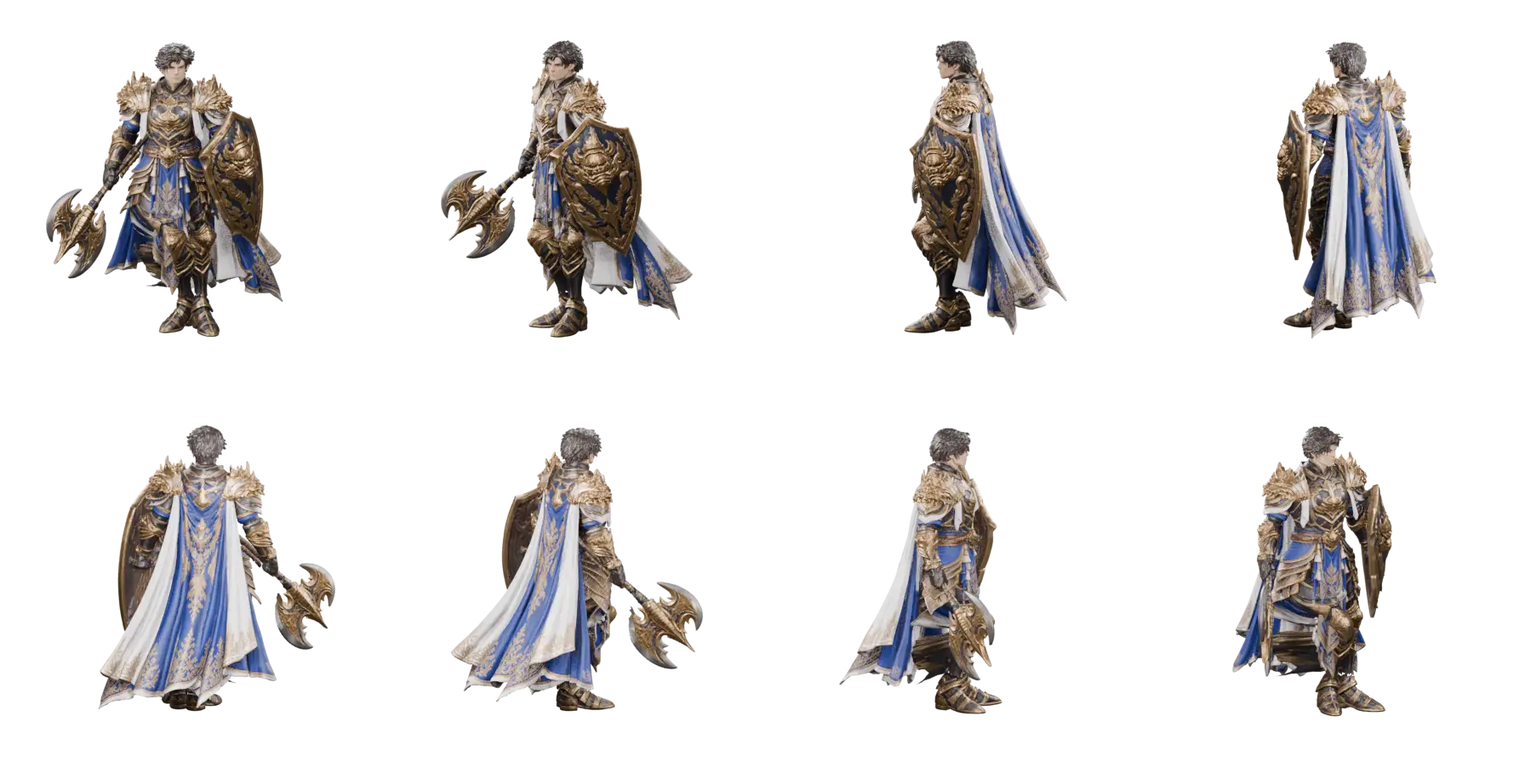
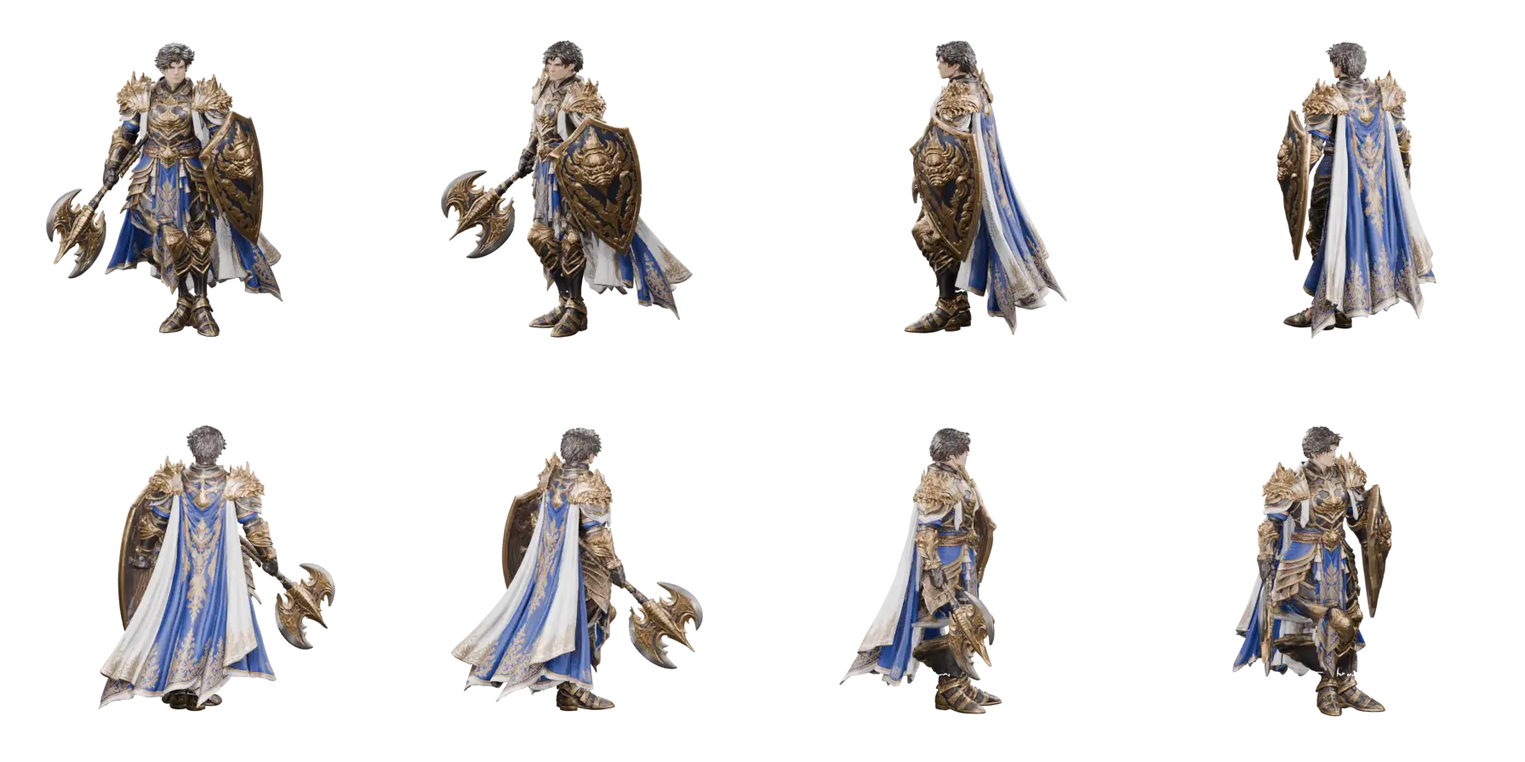
Publish approved eight-direction character rig repairs

diff --git a/tools/hemant-walk-demo/index.html b/tools/hemant-walk-demo/index.html
@@ -11,5 +11,5 @@
 <iframe class="walk-hud hud-top" id="hudTop" title="แถบสถานะผู้ผนึก" src="../town-walk-demo/hud.html?edge=top&v=quest-editorial-2"></iframe><iframe class="walk-hud hud-bottom" id="hudBottom" title="เมนูหลัก" src="../town-walk-demo/hud.html?edge=bottom&v=quest-editorial-2"></iframe><footer><a href="/Soulbeast/tools/town-walk-demo/start.html">เลือกผู้ผนึก / เริ่มเกม</a> · บันทึกการผจญภัยบนเครื่องนี้<span>WASD / ลูกศร · Shift วิ่ง · E สำรวจ · M แผนที่</span></footer>
 <dialog id="townDialog"><small id="dialogType">แผนที่ประเทศเหมันตคีรี</small><h2 id="dialogTitle"></h2><p id="dialogText"></p><div id="dialogChoices"></div><button id="closeDialog">กลับไปเดินต่อ</button></dialog>
 <div id="loading" class="walk-loading" role="status" aria-live="polite"><div class="walk-loading-card"><img class="walk-loading-art" src="/Soulbeast/assets/ui/online-hourglass.webp" alt="" width="360" height="360"><p class="walk-loading-title">กำลังเปิดเส้นทางประเทศ…</p><div class="walk-loading-progress" aria-hidden="true"><i></i></div><p class="walk-loading-note">กรุณารอสักครู่…</p><div class="walk-loading-actions"></div></div></div>
-<script src="/Soulbeast/tools/town-walk-demo/social-engine.generated.js?v=camp-replay-1"></script><script src="war-state.js"></script><script src="war-topology.generated.js"></script><script src="forest-policy.js"></script><script src="country-data.js"></script><script src="../town-walk-demo/town-profiles.js"></script><script src="map-data.js"></script><script src="road-routing.js"></script><script>window.hemantBlueMap=window.hemantMap;</script><script src="country-context.js?v=loading-art-20261103"></script><script src="navigation.js?v=border-gates-v1"></script><script src="waterways.js?v=country-path-art-1"></script><script src="border-data.js?v=four-border-gates-v3"></script><script src="border-links.js?v=four-border-gates-v3"></script><script src="terrain.js?v=living-world-20261103"></script><script src="roamers.js?v=world-polish-20261103"></script><script src="bandits.js?v=edge-camps-20261103"></script><script src="/Soulbeast/tools/hemant-walk-demo/pursuit.js?v=country-one-screen-20261103"></script><script src="encounters.js?v=country-chase-5s"></script><script src="treasure-catalog.js"></script><script src="treasures.js"></script><script src="../town-walk-demo/country-weather.js?v=mobile-effects-1"></script><script src="country-lava.js?v=generated-terrain-1"></script><script src="/Soulbeast/tools/town-walk-demo/sealer-sprite-catalog.js?v=walking-gear-20261111"></script><script src="/Soulbeast/tools/town-walk-demo/sealer-sprites.js?v=all-scenes-smooth-20261103"></script><script src="/Soulbeast/tools/town-walk-demo/quest-engine.js?v=quest-tracking-1"></script><script src="/Soulbeast/tools/town-walk-demo/quest-event-art.js?v=quest-freeze-20261107"></script><script src="/Soulbeast/tools/town-walk-demo/quest-events.js?v=quest-freeze-20261107"></script><script src="/Soulbeast/tools/town-walk-demo/world-quests-data.js?v=main-story-20261103"></script><script src="/Soulbeast/tools/town-walk-demo/quest-pilot-visuals.js?v=quest-freeze-20261107"></script><script src="/Soulbeast/tools/town-walk-demo/quest-expansion-visuals.js?v=quest-freeze-20261107"></script><script src="/Soulbeast/tools/town-walk-demo/world-quests-ui.js?v=quest-tracking-1"></script><script src="/Soulbeast/tools/town-walk-demo/world-atlas-data.js"></script><script src="/Soulbeast/tools/labyrinth-demo/atlas-entrance.js"></script><script src="/Soulbeast/tools/town-walk-demo/world-atlas-logic.js"></script><script src="/Soulbeast/tools/town-walk-demo/world-atlas.js?v=quest-tracking-1"></script><script src="/Soulbeast/tools/labyrinth-demo/party-presence.js"></script><script src="/Soulbeast/tools/town-walk-demo/nameplate-rules.js?v=world-polish-20261103"></script><script src="/Soulbeast/tools/town-walk-demo/remote-walk-sprite.js?v=2"></script><script src="/Soulbeast/tools/town-walk-demo/companion-catalog.js?v=20261105"></script><script src="/Soulbeast/tools/town-walk-demo/companion-followers.js?v=companion-glide-1"></script><script src="/Soulbeast/tools/town-walk-demo/walk-presence.js?v=all-walk-shields-1"></script><script src="/Soulbeast/tools/town-walk-demo/social-scene.js?v=pvp-fast-turns-20261106"></script><script src="quest-targets.js?v=world-polish-20261103"></script><script src="quest-envoy.js"></script><script src="/Soulbeast/tools/town-walk-demo/walk-audio-catalog.js"></script><script src="/Soulbeast/tools/town-walk-demo/walk-audio.js?v=landmark-water-1"></script><script src="fusion-rules.js?v=owned-beasts-20261104"></script><script src="fusion-sprites.js"></script><script src="fusion.js?v=fusion-catalog-20261104"></script><script src="forest-catalog.js?v=world-polish-20261103"></script><script src="landmark-water.js?v=1"></script><script src="forest-entrance.js?v=landmark-water-1"></script><script src="/Soulbeast/tools/town-walk-demo/npc-dialogue.js?v=world-polish-20261103"></script><script src="/Soulbeast/tools/town-walk-demo/device-controls.js"></script><script src="/Soulbeast/tools/town-walk-demo/map-symbols.js"></script><script src="/Soulbeast/tools/town-walk-demo/walk-controls.js?v=world-polish-20261103"></script><script src="country-props.js?v=world-polish-20261103"></script><script src="/Soulbeast/tools/town-walk-demo/living-environment.js?v=country-smooth-20261103"></script><script src="render-budget.js?v=all-scenes-smooth-20261103"></script><script src="../island-demo/island-rules.js?v=game-clock-1"></script><script src="../island-demo/island-account.js?v=2"></script><script src="../town-walk-demo/hud-vitals.js"></script><script src="../island-demo/preview-profile.js?v=3"></script><script src="colosseum-site.js?v=1"></script><script src="/Soulbeast/tools/town-walk-demo/walk-graphics.js?v=1"></script><script src="/Soulbeast/tools/town-walk-demo/walk-idle-art.js?v=npc-interval-1"></script><script src="path-art.js?v=1"></script><script src="road-lamps.js?v=night-1"></script><script src="daylight.js?v=game-clock-1"></script><script src="bridge-rails.js?v=1"></script><script src="world.js?v=quest-editorial-2"></script><script src="/Soulbeast/tools/hemant-walk-demo/repellent.js?v=stack-time-1"></script><script src="/Soulbeast/tools/hemant-walk-demo/repellent-status.js"></script><script src="/Soulbeast/tools/town-walk-demo/teleport-travel.js?v=dungeon-flow-20261106"></script><script src="quick-items.js?v=country-teleport-button-1"></script><script type="module" src="../../client/event-announcements.mjs?v=boss-portrait-1"></script><script src="../rare-beast-walk-demo/catalog.js"></script><script src="../rare-beast-walk-demo/rare-boss-sprites.js"></script><script type="module" src="../../client/kingdom-boss-walk.mjs?v=kingdom-boss-chase-2-projectile-2"></script></body></html>
+<script src="/Soulbeast/tools/town-walk-demo/social-engine.generated.js?v=camp-replay-1"></script><script src="war-state.js"></script><script src="war-topology.generated.js"></script><script src="forest-policy.js"></script><script src="country-data.js"></script><script src="../town-walk-demo/town-profiles.js"></script><script src="map-data.js"></script><script src="road-routing.js"></script><script>window.hemantBlueMap=window.hemantMap;</script><script src="country-context.js?v=loading-art-20261103"></script><script src="navigation.js?v=border-gates-v1"></script><script src="waterways.js?v=country-path-art-1"></script><script src="border-data.js?v=four-border-gates-v3"></script><script src="border-links.js?v=four-border-gates-v3"></script><script src="terrain.js?v=living-world-20261103"></script><script src="roamers.js?v=world-polish-20261103"></script><script src="bandits.js?v=edge-camps-20261103"></script><script src="/Soulbeast/tools/hemant-walk-demo/pursuit.js?v=country-one-screen-20261103"></script><script src="encounters.js?v=country-chase-5s"></script><script src="treasure-catalog.js"></script><script src="treasures.js"></script><script src="../town-walk-demo/country-weather.js?v=mobile-effects-1"></script><script src="country-lava.js?v=generated-terrain-1"></script><script src="/Soulbeast/tools/town-walk-demo/sealer-sprite-catalog.js?v=walking-approved-20261111"></script><script src="/Soulbeast/tools/town-walk-demo/sealer-sprites.js?v=all-scenes-smooth-20261103"></script><script src="/Soulbeast/tools/town-walk-demo/quest-engine.js?v=quest-tracking-1"></script><script src="/Soulbeast/tools/town-walk-demo/quest-event-art.js?v=quest-freeze-20261107"></script><script src="/Soulbeast/tools/town-walk-demo/quest-events.js?v=quest-freeze-20261107"></script><script src="/Soulbeast/tools/town-walk-demo/world-quests-data.js?v=main-story-20261103"></script><script src="/Soulbeast/tools/town-walk-demo/quest-pilot-visuals.js?v=quest-freeze-20261107"></script><script src="/Soulbeast/tools/town-walk-demo/quest-expansion-visuals.js?v=quest-freeze-20261107"></script><script src="/Soulbeast/tools/town-walk-demo/world-quests-ui.js?v=quest-tracking-1"></script><script src="/Soulbeast/tools/town-walk-demo/world-atlas-data.js"></script><script src="/Soulbeast/tools/labyrinth-demo/atlas-entrance.js"></script><script src="/Soulbeast/tools/town-walk-demo/world-atlas-logic.js"></script><script src="/Soulbeast/tools/town-walk-demo/world-atlas.js?v=quest-tracking-1"></script><script src="/Soulbeast/tools/labyrinth-demo/party-presence.js"></script><script src="/Soulbeast/tools/town-walk-demo/nameplate-rules.js?v=world-polish-20261103"></script><script src="/Soulbeast/tools/town-walk-demo/remote-walk-sprite.js?v=2"></script><script src="/Soulbeast/tools/town-walk-demo/companion-catalog.js?v=20261105"></script><script src="/Soulbeast/tools/town-walk-demo/companion-followers.js?v=companion-glide-1"></script><script src="/Soulbeast/tools/town-walk-demo/walk-presence.js?v=all-walk-shields-1"></script><script src="/Soulbeast/tools/town-walk-demo/social-scene.js?v=pvp-fast-turns-20261106"></script><script src="quest-targets.js?v=world-polish-20261103"></script><script src="quest-envoy.js"></script><script src="/Soulbeast/tools/town-walk-demo/walk-audio-catalog.js"></script><script src="/Soulbeast/tools/town-walk-demo/walk-audio.js?v=landmark-water-1"></script><script src="fusion-rules.js?v=owned-beasts-20261104"></script><script src="fusion-sprites.js"></script><script src="fusion.js?v=fusion-catalog-20261104"></script><script src="forest-catalog.js?v=world-polish-20261103"></script><script src="landmark-water.js?v=1"></script><script src="forest-entrance.js?v=landmark-water-1"></script><script src="/Soulbeast/tools/town-walk-demo/npc-dialogue.js?v=world-polish-20261103"></script><script src="/Soulbeast/tools/town-walk-demo/device-controls.js"></script><script src="/Soulbeast/tools/town-walk-demo/map-symbols.js"></script><script src="/Soulbeast/tools/town-walk-demo/walk-controls.js?v=world-polish-20261103"></script><script src="country-props.js?v=world-polish-20261103"></script><script src="/Soulbeast/tools/town-walk-demo/living-environment.js?v=country-smooth-20261103"></script><script src="render-budget.js?v=all-scenes-smooth-20261103"></script><script src="../island-demo/island-rules.js?v=game-clock-1"></script><script src="../island-demo/island-account.js?v=2"></script><script src="../town-walk-demo/hud-vitals.js"></script><script src="../island-demo/preview-profile.js?v=3"></script><script src="colosseum-site.js?v=1"></script><script src="/Soulbeast/tools/town-walk-demo/walk-graphics.js?v=1"></script><script src="/Soulbeast/tools/town-walk-demo/walk-idle-art.js?v=npc-interval-1"></script><script src="path-art.js?v=1"></script><script src="road-lamps.js?v=night-1"></script><script src="daylight.js?v=game-clock-1"></script><script src="bridge-rails.js?v=1"></script><script src="world.js?v=quest-editorial-2"></script><script src="/Soulbeast/tools/hemant-walk-demo/repellent.js?v=stack-time-1"></script><script src="/Soulbeast/tools/hemant-walk-demo/repellent-status.js"></script><script src="/Soulbeast/tools/town-walk-demo/teleport-travel.js?v=dungeon-flow-20261106"></script><script src="quick-items.js?v=country-teleport-button-1"></script><script type="module" src="../../client/event-announcements.mjs?v=boss-portrait-1"></script><script src="../rare-beast-walk-demo/catalog.js"></script><script src="../rare-beast-walk-demo/rare-boss-sprites.js"></script><script type="module" src="../../client/kingdom-boss-walk.mjs?v=kingdom-boss-chase-2-projectile-2"></script></body></html>
 

diff --git a/tools/town-walk-demo/sealer-sprite-catalog.js b/tools/town-walk-demo/sealer-sprite-catalog.js
@@ -763,15 +763,15 @@
     "name": "ผู้พิทักษ์นิรันดร์",
     "tier": 2,
     "female": {
-      "walk": "/Soulbeast/assets/player-walk/meshy-eternal-female/walk-v3-trimmed.webp?v=walking-gear-20261111",
-      "idle": "/Soulbeast/assets/player-walk/meshy-eternal-female/idle-v3-trimmed.webp?v=walking-gear-20261111",
+      "walk": "/Soulbeast/assets/player-walk/meshy-eternal-female/walk-v3-trimmed.webp?v=walking-approved-20261111",
+      "idle": "/Soulbeast/assets/player-walk/meshy-eternal-female/idle-v3-trimmed.webp?v=walking-approved-20261111",
       "portrait": "/Soulbeast/assets/portraits/eternal-female.webp",
       "ready": true,
       "quality": "sharp",
       "cell": 448,
       "renderScale": 1.1375,
       "sourceMinHeight": null,
-      "run": "/Soulbeast/assets/player-walk/meshy-eternal-female/run-v3-trimmed.webp?v=walking-gear-20261111",
+      "run": "/Soulbeast/assets/player-walk/meshy-eternal-female/run-v3-trimmed.webp?v=walking-approved-20261111",
       "walkFrames": 12,
       "runFrames": 12,
       "phaseScale": 0.6,
@@ -799,15 +799,15 @@
       }
     },
     "male": {
-      "walk": "/Soulbeast/assets/player-walk/meshy-eternal-male/walk-v4-trimmed.webp?v=walking-gear-20261111",
-      "idle": "/Soulbeast/assets/player-walk/meshy-eternal-male/idle-v4-trimmed.webp?v=walking-gear-20261111",
+      "walk": "/Soulbeast/assets/player-walk/meshy-eternal-male/walk-v4-trimmed.webp?v=walking-approved-20261111",
+      "idle": "/Soulbeast/assets/player-walk/meshy-eternal-male/idle-v4-trimmed.webp?v=walking-approved-20261111",
       "portrait": "/Soulbeast/assets/media/08591beed2d1368433518fef.webp",
       "ready": true,
       "quality": "sharp",
       "cell": 448,
       "renderScale": 1.1375,
       "sourceMinHeight": null,
-      "run": "/Soulbeast/assets/player-walk/meshy-eternal-male/run-v4-trimmed.webp?v=walking-gear-20261111",
+      "run": "/Soulbeast/assets/player-walk/meshy-eternal-male/run-v4-trimmed.webp?v=walking-approved-20261111",
       "walkFrames": 12,
       "runFrames": 12,
       "phaseScale": 0.6,
@@ -1143,15 +1143,15 @@
     "name": "พรานป่า",
     "tier": 1,
     "female": {
-      "walk": "/Soulbeast/assets/player-walk/meshy-ranger-female/walk-v6-trimmed.webp?v=walking-gear-20261111",
-      "idle": "/Soulbeast/assets/player-walk/meshy-ranger-female/idle-v6-trimmed.webp?v=walking-gear-20261111",
+      "walk": "/Soulbeast/assets/player-walk/meshy-ranger-female/walk-v6-trimmed.webp?v=walking-approved-20261111",
+      "idle": "/Soulbeast/assets/player-walk/meshy-ranger-female/idle-v6-trimmed.webp?v=walking-approved-20261111",
       "portrait": "/Soulbeast/assets/portraits/ranger-female.webp",
       "ready": true,
       "quality": "sharp",
       "cell": 416,
       "renderScale": 1.0562500000000001,
       "sourceMinHeight": null,
-      "run": "/Soulbeast/assets/player-walk/meshy-ranger-female/run-v6-trimmed.webp?v=walking-gear-20261111",
+      "run": "/Soulbeast/assets/player-walk/meshy-ranger-female/run-v6-trimmed.webp?v=walking-approved-20261111",
       "walkFrames": 12,
       "runFrames": 12,
       "phaseScale": 0.6,
@@ -2207,15 +2207,15 @@
     "name": "ช่างตีเหล็ก",
     "tier": 1,
     "female": {
-      "walk": "/Soulbeast/assets/player-walk/meshy-blacksmith-female/walk-v3-trimmed.webp?v=walking-gear-20261111",
-      "idle": "/Soulbeast/assets/player-walk/meshy-blacksmith-female/idle-v3-trimmed.webp?v=walking-gear-20261111",
+      "walk": "/Soulbeast/assets/player-walk/meshy-blacksmith-female/walk-v3-trimmed.webp?v=walking-approved-20261111",
+      "idle": "/Soulbeast/assets/player-walk/meshy-blacksmith-female/idle-v3-trimmed.webp?v=walking-approved-20261111",
       "portrait": "/Soulbeast/assets/portraits/blacksmith-female.webp",
       "ready": true,
       "quality": "sharp",
       "cell": 384,
       "renderScale": 0.9750000000000001,
       "sourceMinHeight": null,
-      "run": "/Soulbeast/assets/player-walk/meshy-blacksmith-female/run-v3-trimmed.webp?v=walking-gear-20261111",
+      "run": "/Soulbeast/assets/player-walk/meshy-blacksmith-female/run-v3-trimmed.webp?v=walking-approved-20261111",
       "walkFrames": 12,
       "runFrames": 12,
       "phaseScale": 0.6,
@@ -2243,15 +2243,15 @@
       }
     },
     "male": {
-      "walk": "/Soulbeast/assets/player-walk/meshy-blacksmith-male/walk-v2-trimmed.webp?v=walking-gear-20261111",
-      "idle": "/Soulbeast/assets/player-walk/meshy-blacksmith-male/idle-v2-trimmed.webp?v=walking-gear-20261111",
+      "walk": "/Soulbeast/assets/player-walk/meshy-blacksmith-male/walk-v2-trimmed.webp?v=walking-approved-20261111",
+      "idle": "/Soulbeast/assets/player-walk/meshy-blacksmith-male/idle-v2-trimmed.webp?v=walking-approved-20261111",
       "portrait": "/Soulbeast/assets/media/a91c5ca22268e0ce9f30d1a5.webp",
       "ready": true,
       "quality": "sharp",
       "cell": 416,
       "renderScale": 1.0562500000000001,
       "sourceMinHeight": null,
-      "run": "/Soulbeast/assets/player-walk/meshy-blacksmith-male/run-v2-trimmed.webp?v=walking-gear-20261111",
+      "run": "/Soulbeast/assets/player-walk/meshy-blacksmith-male/run-v2-trimmed.webp?v=walking-approved-20261111",
       "walkFrames": 12,
       "runFrames": 12,
       "phaseScale": 0.6,
@@ -2471,15 +2471,15 @@
       }
     },
     "male": {
-      "walk": "/Soulbeast/assets/player-walk/meshy-alchemist-male/walk-v2-trimmed.webp?v=walking-gear-20261111",
-      "idle": "/Soulbeast/assets/player-walk/meshy-alchemist-male/idle-v2-trimmed.webp?v=walking-gear-20261111",
+      "walk": "/Soulbeast/assets/player-walk/meshy-alchemist-male/walk-v2-trimmed.webp?v=walking-approved-20261111",
+      "idle": "/Soulbeast/assets/player-walk/meshy-alchemist-male/idle-v2-trimmed.webp?v=walking-approved-20261111",
       "portrait": "/Soulbeast/assets/media/a9f357fd607397ce3acaa90a.webp",
       "ready": true,
       "quality": "sharp",
       "cell": 416,
       "renderScale": 1.0562500000000001,
       "sourceMinHeight": null,
-      "run": "/Soulbeast/assets/player-walk/meshy-alchemist-male/run-v2-trimmed.webp?v=walking-gear-20261111",
+      "run": "/Soulbeast/assets/player-walk/meshy-alchemist-male/run-v2-trimmed.webp?v=walking-approved-20261111",
       "walkFrames": 12,
       "runFrames": 12,
       "phaseScale": 0.6,
@@ -2623,15 +2623,15 @@
       }
     },
     "male": {
-      "walk": "/Soulbeast/assets/player-walk/meshy-goldalch-male/walk-v2-trimmed.webp?v=walking-gear-20261111",
-      "idle": "/Soulbeast/assets/player-walk/meshy-goldalch-male/idle-v2-trimmed.webp?v=walking-gear-20261111",
+      "walk": "/Soulbeast/assets/player-walk/meshy-goldalch-male/walk-v2-trimmed.webp?v=walking-approved-20261111",
+      "idle": "/Soulbeast/assets/player-walk/meshy-goldalch-male/idle-v2-trimmed.webp?v=walking-approved-20261111",
       "portrait": "/Soulbeast/assets/media/cf35300d19132882b39b0f19.webp",
       "ready": true,
       "quality": "sharp",
       "cell": 384,
       "renderScale": 0.9750000000000001,
       "sourceMinHeight": null,
-      "run": "/Soulbeast/assets/player-walk/meshy-goldalch-male/run-v2-trimmed.webp?v=walking-gear-20261111",
+      "run": "/Soulbeast/assets/player-walk/meshy-goldalch-male/run-v2-trimmed.webp?v=walking-approved-20261111",
       "walkFrames": 12,
       "runFrames": 12,
       "phaseScale": 0.6,
@@ -3423,15 +3423,15 @@
     "name": "จ้าวแห่งฝูง",
     "tier": 2,
     "female": {
-      "walk": "/Soulbeast/assets/player-walk/meshy-packlord-female/walk-v4-trimmed.webp?v=walking-gear-20261111",
-      "idle": "/Soulbeast/assets/player-walk/meshy-packlord-female/idle-v4-trimmed.webp?v=walking-gear-20261111",
+      "walk": "/Soulbeast/assets/player-walk/meshy-packlord-female/walk-v4-trimmed.webp?v=walking-approved-20261111",
+      "idle": "/Soulbeast/assets/player-walk/meshy-packlord-female/idle-v4-trimmed.webp?v=walking-approved-20261111",
       "portrait": "/Soulbeast/assets/portraits/packlord-female.webp",
       "ready": true,
       "quality": "sharp",
       "cell": 416,
       "renderScale": 1.0562500000000001,
       "sourceMinHeight": null,
-      "run": "/Soulbeast/assets/player-walk/meshy-packlord-female/run-v4-trimmed.webp?v=walking-gear-20261111",
+      "run": "/Soulbeast/assets/player-walk/meshy-packlord-female/run-v4-trimmed.webp?v=walking-approved-20261111",
       "walkFrames": 12,
       "runFrames": 12,
       "phaseScale": 0.6,
@@ -4371,15 +4371,15 @@
       }
     },
     "male": {
-      "walk": "/Soulbeast/assets/player-walk/meshy-tamer-male/walk-v1-trimmed.webp?v=walking-gear-20261111",
-      "idle": "/Soulbeast/assets/player-walk/meshy-tamer-male/idle-v1-trimmed.webp?v=walking-gear-20261111",
+      "walk": "/Soulbeast/assets/player-walk/meshy-tamer-male/walk-v1-trimmed.webp?v=walking-approved-20261111",
+      "idle": "/Soulbeast/assets/player-walk/meshy-tamer-male/idle-v1-trimmed.webp?v=walking-approved-20261111",
       "portrait": "/Soulbeast/assets/media/0b19756d9a92ea8767e21afd.webp",
       "ready": true,
       "quality": "sharp",
       "cell": 416,
       "renderScale": 1.0562500000000001,
       "sourceMinHeight": null,
-      "run": "/Soulbeast/assets/player-walk/meshy-tamer-male/run-v1-trimmed.webp?v=walking-gear-20261111",
+      "run": "/Soulbeast/assets/player-walk/meshy-tamer-male/run-v1-trimmed.webp?v=walking-approved-20261111",
       "walkFrames": 12,
       "runFrames": 12,
       "phaseScale": 0.6,
@@ -4523,15 +4523,15 @@
       }
     },
     "male": {
-      "walk": "/Soulbeast/assets/player-walk/meshy-sealmaster-male/walk-v5-trimmed.webp?v=walking-gear-20261111",
-      "idle": "/Soulbeast/assets/player-walk/meshy-sealmaster-male/idle-v5-trimmed.webp?v=walking-gear-20261111",
+      "walk": "/Soulbeast/assets/player-walk/meshy-sealmaster-male/walk-v5-trimmed.webp?v=walking-approved-20261111",
+      "idle": "/Soulbeast/assets/player-walk/meshy-sealmaster-male/idle-v5-trimmed.webp?v=walking-approved-20261111",
       "portrait": "/Soulbeast/assets/media/12ead833b275d39307c44eeb.webp",
       "ready": true,
       "quality": "sharp",
       "cell": 384,
       "renderScale": 0.9750000000000001,
       "sourceMinHeight": null,
-      "run": "/Soulbeast/assets/player-walk/meshy-sealmaster-male/run-v5-trimmed.webp?v=walking-gear-20261111",
+      "run": "/Soulbeast/assets/player-walk/meshy-sealmaster-male/run-v5-trimmed.webp?v=walking-approved-20261111",
       "walkFrames": 12,
       "runFrames": 12,
       "phaseScale": 0.6,

diff --git a/tools/town-walk-demo/index.html b/tools/town-walk-demo/index.html
@@ -9,7 +9,7 @@
 <div class="actions"><button id="interact" disabled><span>☏</span><small>พูดคุย / เข้า</small></button></div>
 <div id="toast" role="status">เดินไปหา NPC หน้าอาคาร แล้วกดพูดคุย</div><iframe class="walk-hud hud-top" id="hudTop" title="แถบสถานะผู้ผนึก" src="hud.html?edge=top&v=quest-editorial-2"></iframe><iframe class="walk-hud hud-bottom" id="hudBottom" title="เมนูหลัก" src="hud.html?edge=bottom&v=quest-editorial-2"></iframe><footer><a href="/Soulbeast/tools/town-walk-demo/start.html">เลือกผู้ผนึก / เริ่มเกม</a> · บันทึกการผจญภัยบนเครื่องนี้<span>WASD / ลูกศร · Shift วิ่ง · E พูดคุย · M แผนที่</span></footer>
 <dialog id="townDialog"><small>นครพันผนึก · จุดบริการ</small><h2 id="dialogTitle"></h2><p id="dialogText"></p><div id="dialogChoices"></div><button id="closeDialog">กลับไปเดินต่อ</button></dialog>
-<div id="loading" class="walk-loading" role="status" aria-live="polite"><div class="walk-loading-card"><img class="walk-loading-art" src="/Soulbeast/assets/ui/online-hourglass.webp" alt="" width="360" height="360"><p class="walk-loading-title">กำลังเปิดประตูเมือง…</p><div class="walk-loading-progress" aria-hidden="true"><i></i></div><p class="walk-loading-note">กรุณารอสักครู่…</p><div class="walk-loading-actions"></div></div></div><script src="/Soulbeast/tools/town-walk-demo/social-engine.generated.js?v=camp-replay-1"></script><script src="../hemant-walk-demo/country-data.js"></script><script src="town-profiles.js"></script><script src="village-layout.js?v=living-world-20261103"></script><script src="../hemant-walk-demo/war-state.js"></script><script src="town-access.js"></script><script src="town-theme.js"></script><script src="city-walls-v2.js"></script><script src="fountain-water.js"></script><script src="town-geometry.js"></script><script src="town-decor.js?v=all-scenes-smooth-20261103"></script><script src="/Soulbeast/tools/town-walk-demo/quest-engine.js?v=quest-tracking-1"></script><script src="/Soulbeast/tools/town-walk-demo/quest-event-art.js?v=quest-freeze-20261107"></script><script src="/Soulbeast/tools/town-walk-demo/quest-events.js?v=quest-freeze-20261107"></script><script src="/Soulbeast/tools/town-walk-demo/world-quests-data.js?v=main-story-20261103"></script><script src="/Soulbeast/tools/town-walk-demo/quest-pilot-visuals.js?v=quest-freeze-20261107"></script><script src="/Soulbeast/tools/town-walk-demo/quest-expansion-visuals.js?v=quest-freeze-20261107"></script><script src="/Soulbeast/tools/town-walk-demo/world-quests-ui.js?v=quest-tracking-1"></script><script src="/Soulbeast/tools/town-walk-demo/world-atlas-data.js"></script><script src="/Soulbeast/tools/labyrinth-demo/atlas-entrance.js"></script><script src="/Soulbeast/tools/town-walk-demo/world-atlas-logic.js"></script><script src="/Soulbeast/tools/town-walk-demo/world-atlas.js?v=quest-tracking-1"></script><script src="town-environment.js?v=living-world-20261103"></script><script src="country-weather.js"></script><script src="/Soulbeast/tools/town-walk-demo/sealer-sprite-catalog.js?v=walking-gear-20261111"></script><script src="/Soulbeast/tools/town-walk-demo/sealer-sprites.js?v=all-scenes-smooth-20261103"></script><script src="/Soulbeast/tools/labyrinth-demo/party-presence.js"></script><script src="/Soulbeast/tools/town-walk-demo/nameplate-rules.js?v=world-polish-20261103"></script><script src="/Soulbeast/tools/town-walk-demo/remote-walk-sprite.js?v=2"></script><script src="/Soulbeast/tools/town-walk-demo/companion-catalog.js?v=20261105"></script><script src="/Soulbeast/tools/town-walk-demo/companion-followers.js?v=companion-glide-1"></script><script src="walk-presence.js?v=all-walk-shields-1"></script><script src="/Soulbeast/tools/town-walk-demo/social-scene.js?v=pvp-fast-turns-20261106"></script><script src="/Soulbeast/tools/town-walk-demo/walk-audio-catalog.js"></script><script src="/Soulbeast/tools/town-walk-demo/walk-audio.js?v=ios-audio-2-20261107"></script><script src="/Soulbeast/tools/town-walk-demo/npc-dialogue.js?v=world-polish-20261103"></script><script src="/Soulbeast/tools/town-walk-demo/device-controls.js"></script><script src="/Soulbeast/tools/town-walk-demo/map-symbols.js"></script><script src="/Soulbeast/tools/town-walk-demo/walk-controls.js?v=world-polish-20261103"></script><script src="/Soulbeast/tools/hemant-walk-demo/render-budget.js?v=all-scenes-smooth-20261103"></script><script src="/Soulbeast/tools/town-walk-demo/living-environment.js?v=country-smooth-20261103"></script><script src="service-art-buttons.js?v=legacy-service-art-20261103"></script><script src="/Soulbeast/tools/town-walk-demo/walk-idle-art.js?v=npc-interval-1"></script><script src="town.js?v=quest-editorial-2"></script><script src="/Soulbeast/tools/hemant-walk-demo/repellent.js?v=stack-time-1"></script><script src="/Soulbeast/tools/hemant-walk-demo/repellent-status.js"></script><script src="/Soulbeast/tools/town-walk-demo/teleport-travel.js?v=dungeon-flow-20261106"></script><script type="module" src="../../client/event-announcements.mjs?v=boss-portrait-1"></script></body></html>
+<div id="loading" class="walk-loading" role="status" aria-live="polite"><div class="walk-loading-card"><img class="walk-loading-art" src="/Soulbeast/assets/ui/online-hourglass.webp" alt="" width="360" height="360"><p class="walk-loading-title">กำลังเปิดประตูเมือง…</p><div class="walk-loading-progress" aria-hidden="true"><i></i></div><p class="walk-loading-note">กรุณารอสักครู่…</p><div class="walk-loading-actions"></div></div></div><script src="/Soulbeast/tools/town-walk-demo/social-engine.generated.js?v=camp-replay-1"></script><script src="../hemant-walk-demo/country-data.js"></script><script src="town-profiles.js"></script><script src="village-layout.js?v=living-world-20261103"></script><script src="../hemant-walk-demo/war-state.js"></script><script src="town-access.js"></script><script src="town-theme.js"></script><script src="city-walls-v2.js"></script><script src="fountain-water.js"></script><script src="town-geometry.js"></script><script src="town-decor.js?v=all-scenes-smooth-20261103"></script><script src="/Soulbeast/tools/town-walk-demo/quest-engine.js?v=quest-tracking-1"></script><script src="/Soulbeast/tools/town-walk-demo/quest-event-art.js?v=quest-freeze-20261107"></script><script src="/Soulbeast/tools/town-walk-demo/quest-events.js?v=quest-freeze-20261107"></script><script src="/Soulbeast/tools/town-walk-demo/world-quests-data.js?v=main-story-20261103"></script><script src="/Soulbeast/tools/town-walk-demo/quest-pilot-visuals.js?v=quest-freeze-20261107"></script><script src="/Soulbeast/tools/town-walk-demo/quest-expansion-visuals.js?v=quest-freeze-20261107"></script><script src="/Soulbeast/tools/town-walk-demo/world-quests-ui.js?v=quest-tracking-1"></script><script src="/Soulbeast/tools/town-walk-demo/world-atlas-data.js"></script><script src="/Soulbeast/tools/labyrinth-demo/atlas-entrance.js"></script><script src="/Soulbeast/tools/town-walk-demo/world-atlas-logic.js"></script><script src="/Soulbeast/tools/town-walk-demo/world-atlas.js?v=quest-tracking-1"></script><script src="town-environment.js?v=living-world-20261103"></script><script src="country-weather.js"></script><script src="/Soulbeast/tools/town-walk-demo/sealer-sprite-catalog.js?v=walking-approved-20261111"></script><script src="/Soulbeast/tools/town-walk-demo/sealer-sprites.js?v=all-scenes-smooth-20261103"></script><script src="/Soulbeast/tools/labyrinth-demo/party-presence.js"></script><script src="/Soulbeast/tools/town-walk-demo/nameplate-rules.js?v=world-polish-20261103"></script><script src="/Soulbeast/tools/town-walk-demo/remote-walk-sprite.js?v=2"></script><script src="/Soulbeast/tools/town-walk-demo/companion-catalog.js?v=20261105"></script><script src="/Soulbeast/tools/town-walk-demo/companion-followers.js?v=companion-glide-1"></script><script src="walk-presence.js?v=all-walk-shields-1"></script><script src="/Soulbeast/tools/town-walk-demo/social-scene.js?v=pvp-fast-turns-20261106"></script><script src="/Soulbeast/tools/town-walk-demo/walk-audio-catalog.js"></script><script src="/Soulbeast/tools/town-walk-demo/walk-audio.js?v=ios-audio-2-20261107"></script><script src="/Soulbeast/tools/town-walk-demo/npc-dialogue.js?v=world-polish-20261103"></script><script src="/Soulbeast/tools/town-walk-demo/device-controls.js"></script><script src="/Soulbeast/tools/town-walk-demo/map-symbols.js"></script><script src="/Soulbeast/tools/town-walk-demo/walk-controls.js?v=world-polish-20261103"></script><script src="/Soulbeast/tools/hemant-walk-demo/render-budget.js?v=all-scenes-smooth-20261103"></script><script src="/Soulbeast/tools/town-walk-demo/living-environment.js?v=country-smooth-20261103"></script><script src="service-art-buttons.js?v=legacy-service-art-20261103"></script><script src="/Soulbeast/tools/town-walk-demo/walk-idle-art.js?v=npc-interval-1"></script><script src="town.js?v=quest-editorial-2"></script><script src="/Soulbeast/tools/hemant-walk-demo/repellent.js?v=stack-time-1"></script><script src="/Soulbeast/tools/hemant-walk-demo/repellent-status.js"></script><script src="/Soulbeast/tools/town-walk-demo/teleport-travel.js?v=dungeon-flow-20261106"></script><script type="module" src="../../client/event-announcements.mjs?v=boss-portrait-1"></script></body></html>
 
 
 

diff --git a/tools/labyrinth-demo/index.html b/tools/labyrinth-demo/index.html
@@ -9,7 +9,7 @@
 <iframe class="walk-hud hud-top" id="hudTop" title="แถบสถานะผู้ผนึก" src="../town-walk-demo/hud.html?edge=top&v=quest-editorial-2"></iframe><iframe class="walk-hud hud-bottom" id="hudBottom" title="เมนูหลัก" src="../town-walk-demo/hud.html?edge=bottom&v=quest-editorial-2"></iframe>
 <template id="partyControls"><button id="leaveParty" type="button">ออกจากดันเจี้ยน</button><button id="retry" hidden>เชื่อมต่ออีกครั้ง</button><button id="returnHome" hidden>กลับเมืองหลวง</button><section id="battle" hidden aria-label="การต่อสู้ปาร์ตี้"><iframe id="partyBattleFrame" title="สนามต่อสู้ดันเจี้ยน"></iframe><p id="battleError" role="status" hidden></p></section></template>
 <div id="loading" class="walk-loading" role="status" aria-live="polite"><div class="walk-loading-card"><img class="walk-loading-art" src="/Soulbeast/assets/ui/online-hourglass.webp" alt="" width="360" height="360"><p class="walk-loading-title">กำลังเปิดทางสู่ดันเจี้ยน…</p><div class="walk-loading-progress" aria-hidden="true"><i></i></div><p class="walk-loading-note">กรุณารอสักครู่…</p><div class="walk-loading-actions"></div></div></div>
-<script src="/Soulbeast/tools/town-walk-demo/social-engine.generated.js?v=camp-replay-1"></script><script src="progression.js"></script><script src="floors.js"></script><script src="game-data.js"></script><script src="maze.js?v=dungeon-flow-20261106"></script><script src="loot-catalog.js"></script><script src="state.js"></script><script src="reward-art.js?v=1"></script><script src="feedback.js?v=1"></script><script src="../town-walk-demo/sealer-sprite-catalog.js?v=walking-gear-20261111"></script><script src="../town-walk-demo/sealer-sprites.js?v=all-scenes-smooth-20261103"></script><script src="/Soulbeast/tools/town-walk-demo/nameplate-rules.js?v=world-polish-20261103"></script><script src="/Soulbeast/tools/town-walk-demo/remote-walk-sprite.js?v=2"></script><script src="../hemant-walk-demo/roamers.js?v=world-polish-20261103"></script><script src="/Soulbeast/tools/hemant-walk-demo/pursuit.js"></script><script src="../hemant-walk-demo/encounters.js"></script><script src="../hemant-walk-demo/repellent.js?v=stack-time-1"></script><script src="../hemant-walk-demo/treasure-catalog.js"></script><script src="../town-walk-demo/quest-engine.js?v=quest-tracking-1"></script><script src="/Soulbeast/tools/town-walk-demo/quest-event-art.js?v=quest-freeze-20261107"></script><script src="/Soulbeast/tools/town-walk-demo/quest-events.js?v=quest-freeze-20261107"></script><script src="../town-walk-demo/world-quests-data.js?v=main-story-20261103"></script><script src="/Soulbeast/tools/town-walk-demo/quest-pilot-visuals.js?v=quest-freeze-20261107"></script><script src="/Soulbeast/tools/town-walk-demo/quest-expansion-visuals.js?v=quest-freeze-20261107"></script><script src="../town-walk-demo/world-quests-ui.js?v=quest-tracking-1"></script><script src="boss-sprites.js?v=half-boss-20261106"></script><script src="boss-guard.js"></script><script src="follower.js"></script><script src="jungle-theme.js"></script><script src="castle-furnishings.js"></script><script src="extended-themes.js"></script><script src="liquid-effects.js?v=all-scenes-smooth-20261103"></script><script src="/Soulbeast/tools/town-walk-demo/walk-audio-catalog.js"></script><script src="/Soulbeast/tools/town-walk-demo/walk-audio.js?v=ios-audio-2-20261107"></script><script src="/Soulbeast/tools/town-walk-demo/hud-vitals.js"></script><script src="traps.js?v=hidden-runes-20261103"></script><script src="/Soulbeast/tools/town-walk-demo/npc-dialogue.js?v=world-polish-20261103"></script><script src="/Soulbeast/tools/town-walk-demo/device-controls.js"></script><script src="/Soulbeast/tools/town-walk-demo/map-symbols.js"></script><script src="/Soulbeast/tools/town-walk-demo/walk-controls.js?v=world-polish-20261103"></script><script src="/Soulbeast/tools/hemant-walk-demo/render-budget.js?v=all-scenes-smooth-20261103"></script><script src="/Soulbeast/tools/town-walk-demo/living-environment.js?v=country-smooth-20261103"></script><script src="dungeon-ground.js?v=shared-shell-1"></script><script type="module">
+<script src="/Soulbeast/tools/town-walk-demo/social-engine.generated.js?v=camp-replay-1"></script><script src="progression.js"></script><script src="floors.js"></script><script src="game-data.js"></script><script src="maze.js?v=dungeon-flow-20261106"></script><script src="loot-catalog.js"></script><script src="state.js"></script><script src="reward-art.js?v=1"></script><script src="feedback.js?v=1"></script><script src="../town-walk-demo/sealer-sprite-catalog.js?v=walking-approved-20261111"></script><script src="../town-walk-demo/sealer-sprites.js?v=all-scenes-smooth-20261103"></script><script src="/Soulbeast/tools/town-walk-demo/nameplate-rules.js?v=world-polish-20261103"></script><script src="/Soulbeast/tools/town-walk-demo/remote-walk-sprite.js?v=2"></script><script src="../hemant-walk-demo/roamers.js?v=world-polish-20261103"></script><script src="/Soulbeast/tools/hemant-walk-demo/pursuit.js"></script><script src="../hemant-walk-demo/encounters.js"></script><script src="../hemant-walk-demo/repellent.js?v=stack-time-1"></script><script src="../hemant-walk-demo/treasure-catalog.js"></script><script src="../town-walk-demo/quest-engine.js?v=quest-tracking-1"></script><script src="/Soulbeast/tools/town-walk-demo/quest-event-art.js?v=quest-freeze-20261107"></script><script src="/Soulbeast/tools/town-walk-demo/quest-events.js?v=quest-freeze-20261107"></script><script src="../town-walk-demo/world-quests-data.js?v=main-story-20261103"></script><script src="/Soulbeast/tools/town-walk-demo/quest-pilot-visuals.js?v=quest-freeze-20261107"></script><script src="/Soulbeast/tools/town-walk-demo/quest-expansion-visuals.js?v=quest-freeze-20261107"></script><script src="../town-walk-demo/world-quests-ui.js?v=quest-tracking-1"></script><script src="boss-sprites.js?v=half-boss-20261106"></script><script src="boss-guard.js"></script><script src="follower.js"></script><script src="jungle-theme.js"></script><script src="castle-furnishings.js"></script><script src="extended-themes.js"></script><script src="liquid-effects.js?v=all-scenes-smooth-20261103"></script><script src="/Soulbeast/tools/town-walk-demo/walk-audio-catalog.js"></script><script src="/Soulbeast/tools/town-walk-demo/walk-audio.js?v=ios-audio-2-20261107"></script><script src="/Soulbeast/tools/town-walk-demo/hud-vitals.js"></script><script src="traps.js?v=hidden-runes-20261103"></script><script src="/Soulbeast/tools/town-walk-demo/npc-dialogue.js?v=world-polish-20261103"></script><script src="/Soulbeast/tools/town-walk-demo/device-controls.js"></script><script src="/Soulbeast/tools/town-walk-demo/map-symbols.js"></script><script src="/Soulbeast/tools/town-walk-demo/walk-controls.js?v=world-polish-20261103"></script><script src="/Soulbeast/tools/hemant-walk-demo/render-budget.js?v=all-scenes-smooth-20261103"></script><script src="/Soulbeast/tools/town-walk-demo/living-environment.js?v=country-smooth-20261103"></script><script src="dungeon-ground.js?v=shared-shell-1"></script><script type="module">
 const room=new URLSearchParams(location.search).get('room');
 if(room){
  document.documentElement.dataset.dungeonMode='party';

diff --git a/tools/labyrinth-demo/lobby.html b/tools/labyrinth-demo/lobby.html
@@ -1,4 +1,4 @@
 <!doctype html><html lang="th"><head><script src="/Soulbeast/client/game-locale-extra.js?v=three-languages-1"></script><script src="/Soulbeast/client/game-locale.js?v=quest-editorial-2" data-translate-page></script><link rel="preload" as="image" href="/Soulbeast/assets/ui/online-hourglass.webp"><link rel="stylesheet" href="/Soulbeast/tools/town-walk-demo/loading-screen.css?v=loading-art-20261103"><script src="/Soulbeast/tools/town-walk-demo/loading-screen.js?v=loading-art-20261103"></script></head><meta charset="utf-8"><meta name="viewport" content="width=device-width,initial-scale=1"><title>มหาวงกตดันเจี้ยน 7 ชั้น · เตรียมทีม</title><style>
 *{box-sizing:border-box}body{margin:0;background:#08111b;color:#eadbbb;font:16px Tahoma;line-height:1.65}main{max-width:940px;margin:auto;padding:24px}h1{font-size:25px;color:#f7d895}header{background:linear-gradient(90deg,#08111b,transparent),url('/Soulbeast/assets/dungeon-mine-v1/country-entrance-v1.webp') center right/contain no-repeat;min-height:220px;padding:20px;border:1px solid #ad8748;border-radius:18px}header p{max-width:470px}button,a{background:#19303f;color:#ffe6aa;border:1px solid #9d814d;padding:12px 18px;border-radius:10px;cursor:pointer;text-decoration:none}button:disabled{opacity:.4;cursor:default}#roster{display:grid;gap:8px;margin:10px 0}.card{display:grid;grid-template-columns:88px minmax(0,1fr) auto;align-items:center;gap:10px;border:1px solid #7a724e;background:linear-gradient(110deg,#142936,#0d1c27);padding:10px 12px;border-radius:9px}.card.selected{border-color:#72dbc3;box-shadow:inset 0 0 0 1px #72dbc3}.portraits{display:flex;align-items:center;gap:6px}.sealer,.pet{flex:none;border-radius:50%;border:2px solid #bca161;background-color:#081521;box-shadow:0 0 0 2px #06121d,0 0 8px #c19b4930}.sealer{width:46px;height:46px;background-repeat:no-repeat;background-size:cover!important;background-position:center}.pet{width:36px;height:36px;object-fit:contain;padding:2px}.friend-info{min-width:0}.friend-info p{margin:0;line-height:1.45;font-size:12px;overflow-wrap:anywhere;color:#b6c9cc}.friend-info p:first-child{font-size:14px;font-weight:bold;color:#f4dfaa}.card button{padding:7px 10px;min-height:36px;font-size:12px;white-space:nowrap}.card.selected button{border-color:#72dbc3;color:#a2f4d7}@media(max-width:480px){main{padding:14px}.card{grid-template-columns:78px minmax(0,1fr) auto;gap:8px;padding:9px}.sealer{width:42px;height:42px}.pet{width:30px;height:30px}.portraits{gap:6px}.friend-info p{font-size:11px}.friend-info p:first-child{font-size:13px}.card button{padding:6px 8px}}small{color:#b8c8c9}#status{min-height:32px;color:#f0c77b}footer{position:sticky;bottom:0;background:#08111bf2;padding:16px 0;display:flex;gap:10px;flex-wrap:wrap}</style>
 <link rel="stylesheet" href="/Soulbeast/tools/town-walk-demo/dialogue-skin.css?v=npc-dialogue-20261103"><body class="dialogue-lobby"><main><header><h1>มหาวงกตดันเจี้ยน 7 ชั้น</h1><p>ชั้นที่ 1 · เหมืองสายแร่ใต้พิภพ</p><p>เข้าคนเดียวได้ หรือเลือกเพื่อนออนไลน์ 1 คนที่เลเวลต่างกันไม่เกิน 10<br>เมื่อเลือกเพื่อน ทีมต่อสู้จะมีผู้ผนึก 2 คน และอสูรตามจำนวนที่อาชีพรองรับ รวมสูงสุด 8 ช่อง</p></header><p id="identity"></p><small>คุณควบคุมทีมร่วมในการต่อสู้ เพื่อนใช้ค่าสถานะและอุปกรณ์ล่าสุด ไม่มีการหักทรัพยากรจากบัญชีเพื่อน</small><h2>เพื่อนออนไลน์</h2><p id="rosterMessage" role="status"></p><section id="roster"></section><h2>ตัวช่วยจำลอง</h2><section id="simulatedRoster"></section><p id="status" role="status"></p><footer><button id="enter" disabled>เข้าดันเจี้ยนคนเดียว</button><button id="clearFriend" hidden>ยกเลิกเพื่อนร่วมทีม</button><a href="../hemant-walk-demo/index.html?country=red&arrival=dungeon">กลับปากถ้ำ</a></footer></main>
-<script src="../town-walk-demo/sealer-sprite-catalog.js?v=walking-gear-20261111"></script><script src="party-art.js"></script><script src="game-data.js"></script><script src="state.js"></script><script src="party-presence.js"></script><script src="simulated-friend.js"></script><script type="module" src="lobby.js?v=three-languages-1"></script><script type="module" src="../../client/event-announcements.mjs?v=boss-portrait-1"></script></html>
+<script src="../town-walk-demo/sealer-sprite-catalog.js?v=walking-approved-20261111"></script><script src="party-art.js"></script><script src="game-data.js"></script><script src="state.js"></script><script src="party-presence.js"></script><script src="simulated-friend.js"></script><script type="module" src="lobby.js?v=three-languages-1"></script><script type="module" src="../../client/event-announcements.mjs?v=boss-portrait-1"></script></html>

diff --git a/tools/town-walk-demo/hud.html b/tools/town-walk-demo/hud.html
@@ -1,4 +1,4 @@
-<!doctype html><html lang="th"><head><script src="/Soulbeast/client/game-locale-extra.js?v=three-languages-1"></script><script src="/Soulbeast/client/game-locale.js?v=quest-editorial-2" data-translate-page></script><meta charset="utf-8"><meta name="viewport" content="width=device-width,initial-scale=1"><base href="/Soulbeast/"><script src="/Soulbeast/tools/town-walk-demo/companion-catalog.js?v=companion-nav-1"></script><script src="/Soulbeast/tools/town-walk-demo/companion-followers.js?v=companion-nav-1"></script><script src="/Soulbeast/tools/labyrinth-demo/party-art.js?v=companion-nav-1"></script><script src="/Soulbeast/tools/town-walk-demo/hud-vitals.js"></script><script src="/Soulbeast/tools/town-walk-demo/sealer-sprite-catalog.js?v=walking-gear-20261111"></script><script src="/Soulbeast/tools/hemant-walk-demo/country-data.js"></script><script src="/Soulbeast/tools/town-walk-demo/town-profiles.js"></script><style>
+<!doctype html><html lang="th"><head><script src="/Soulbeast/client/game-locale-extra.js?v=three-languages-1"></script><script src="/Soulbeast/client/game-locale.js?v=quest-editorial-2" data-translate-page></script><meta charset="utf-8"><meta name="viewport" content="width=device-width,initial-scale=1"><base href="/Soulbeast/"><script src="/Soulbeast/tools/town-walk-demo/companion-catalog.js?v=companion-nav-1"></script><script src="/Soulbeast/tools/town-walk-demo/companion-followers.js?v=companion-nav-1"></script><script src="/Soulbeast/tools/labyrinth-demo/party-art.js?v=companion-nav-1"></script><script src="/Soulbeast/tools/town-walk-demo/hud-vitals.js"></script><script src="/Soulbeast/tools/town-walk-demo/sealer-sprite-catalog.js?v=walking-approved-20261111"></script><script src="/Soulbeast/tools/hemant-walk-demo/country-data.js"></script><script src="/Soulbeast/tools/town-walk-demo/town-profiles.js"></script><style>
 /* Layout: one-screen phone game — status bar on top, scrolling stage, fixed bottom nav; night-ink world with gold seal accents */
 :root{
   --bg:#10121b; --panel:#1a1d2b; --panel2:#232739; --line:#323650; --fg:#ece6d6; --muted:#9a97ab;

diff --git a/tools/island-demo/index.html b/tools/island-demo/index.html
@@ -27,7 +27,7 @@
 <script src="preview-profile.js?v=3"></script>
 <script src="../hemant-walk-demo/country-data.js"></script>
 <script src="../town-walk-demo/town-profiles.js"></script>
-<script src="../town-walk-demo/sealer-sprite-catalog.js?v=walking-gear-20261111"></script>
+<script src="../town-walk-demo/sealer-sprite-catalog.js?v=walking-approved-20261111"></script>
 <script src="../town-walk-demo/sealer-sprites.js?v=all-scenes-smooth-20261103"></script>
 <script src="../town-walk-demo/companion-catalog.js?v=20261105"></script>
 <script src="../town-walk-demo/companion-followers.js?v=companion-glide-1"></script>

diff --git a/tools/colosseum/index.html b/tools/colosseum/index.html
@@ -156,6 +156,6 @@
   </div>
   <section id="overlay" hidden aria-live="polite"><h2 id="overlay-title"></h2><p id="overlay-text"></p><div id="match-results" hidden></div><button id="rank-leave-respawn" class="secondary" hidden>ออกจากแมตช์จัดอันดับ</button><button id="back" hidden>กลับห้องโคลอสเซียม</button></section>
  </section>
- <script type="module" src="./client.mjs?v=walking-gear-20261111"></script>
+ <script type="module" src="./client.mjs?v=walking-approved-20261111"></script>
 </body>
 </html>
